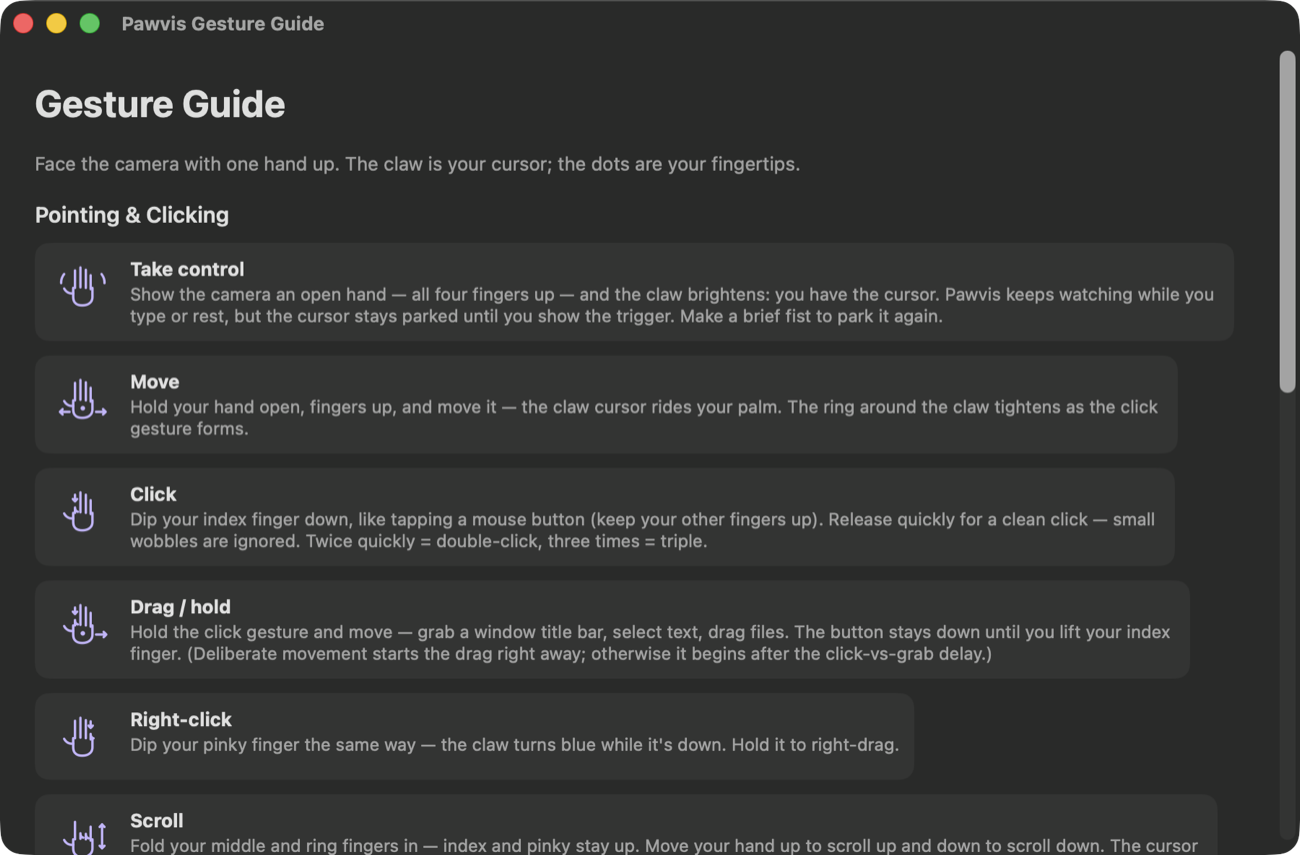
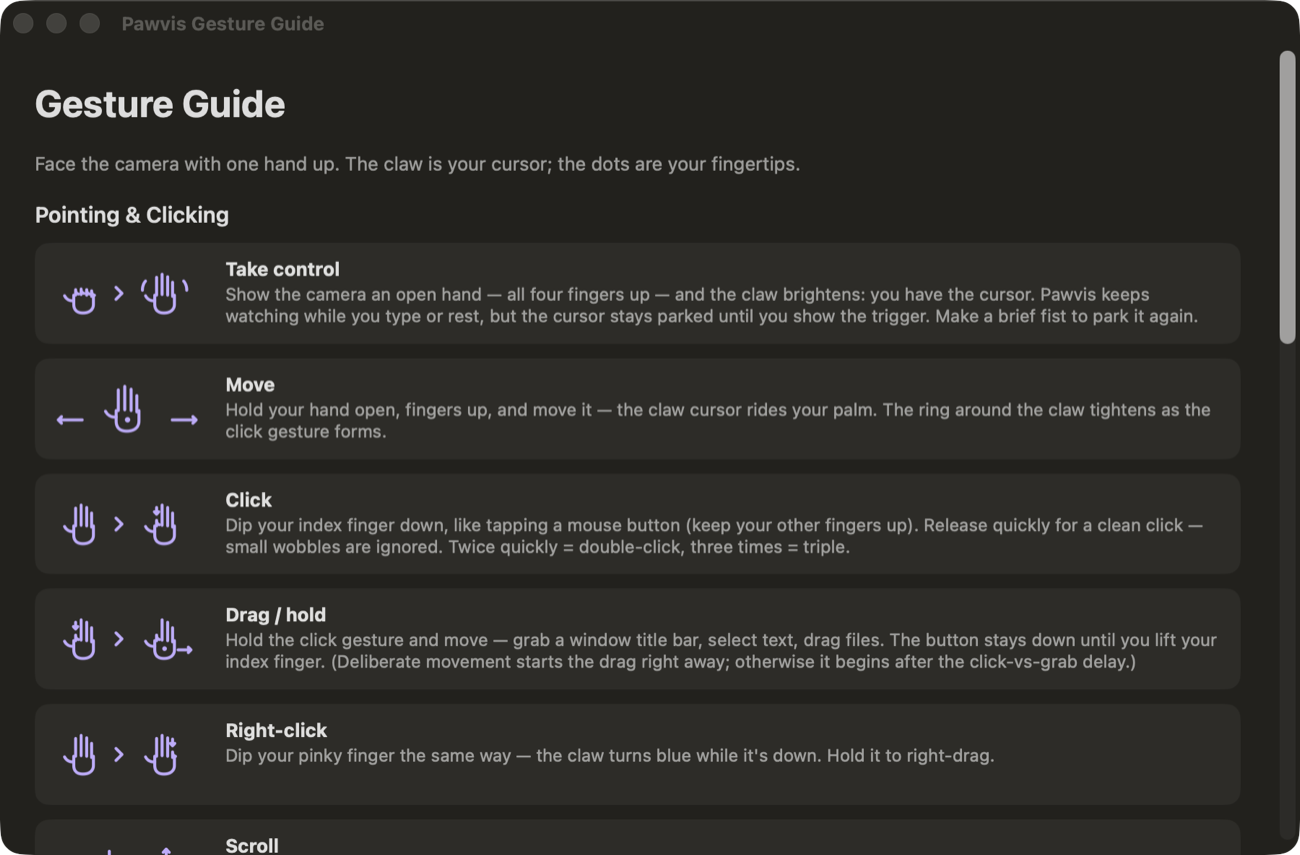
docs: the two wiggles reach the README, the site, and the screenshots
The README bullet and the site's custom-gestures card now name both
wiggle orientations (raised palm to the camera, or pointed flat at the
screen drumming on invisible keys), the card's glyph row gains the
side-view pointed hand, and the guide/settings screenshots are retaken
from the reworked windows: whole-gesture panels in the guide, the guide
link at the top of the Gestures tab. AGENTS.md records the new detector
constraint (orientation separation, span-normalized drop, opposed frames
feed neither machine) and the second art format.

diff --git a/docs/index.html b/docs/index.html
@@ -177,13 +177,14 @@
       <article class="card card-wide" data-reveal>
         <div class="glyph-row" aria-hidden="true">
           <img class="glyph" src="assets/gestures/wiggle.svg" alt="" width="48" height="48" loading="lazy">
+          <img class="glyph" src="assets/gestures/wiggle-pointed.svg" alt="" width="48" height="48" loading="lazy">
           <img class="glyph" src="assets/gestures/thumbs-up.svg" alt="" width="48" height="48" loading="lazy">
           <img class="glyph" src="assets/gestures/thumbs-left.svg" alt="" width="48" height="48" loading="lazy">
           <img class="glyph" src="assets/gestures/grab-up-right.svg" alt="" width="48" height="48" loading="lazy">
         </div>
         <h3>Custom gestures, your actions</h3>
-        <p>Wiggle your fingers at the camera, one hand or both. Hold a fist with the thumb up, down, left or right. Hold a shaka. Bunch your fingertips onto your thumb and fling the bunch toward any edge or corner. Every gesture is listed in <strong>Settings&nbsp;→&nbsp;Gestures</strong>, off until you give it an action: switch desktops, snap and move windows, go back or forward, press any shortcut, open any app, run any command. Each row carries its own tuning dials.</p>
-        <p class="card-note mono">nothing bound by default · tuning on every gesture · the guide illustrates what you bind</p>
+        <p>Wiggle your fingers with the hand raised to the camera, or point it flat at the screen and drum on invisible keys (a separate gesture, one hand or both). Hold a fist with the thumb up, down, left or right. Hold a shaka. Bunch your fingertips onto your thumb and fling the bunch toward any edge or corner. Every gesture is listed in <strong>Settings&nbsp;→&nbsp;Gestures</strong>, off until you give it an action: switch desktops, snap and move windows, go back or forward, press any shortcut, open any app, run any command. Each row carries its own tuning dials.</p>
+        <p class="card-note mono">nothing bound by default · tuning on every gesture · the guide illustrates every gesture in full</p>
       </article>
 
       <article class="card card-wide" data-reveal>
@@ -211,11 +212,11 @@
 
     <div class="shots" data-reveal>
       <figure class="shot">
-        <img src="assets/app-gesture-guide.png" alt="The Pawvis Gesture Guide window, listing Take control, Move, Click, Drag / hold, Right-click and Scroll, each illustrated with a drawing of the hand pose it takes." width="1300" height="855" loading="lazy">
+        <img src="assets/app-gesture-guide.png" alt="The Pawvis Gesture Guide window, listing Take control, Move, Click, Drag / hold and Right-click, each illustrated with a drawing of the whole gesture: the hand before, an arrow, and the hand after." width="1300" height="855" loading="lazy">
         <figcaption>The Gesture Guide ships in the app: every move, drawn as the pose you actually make, custom bindings included.</figcaption>
       </figure>
       <figure class="shot shot-tall">
-        <img src="assets/app-settings-custom.png" alt="The Pawvis Settings window on the Gestures tab: every custom gesture listed with a drawing of its pose, a menu naming its action or Not assigned, and a collapsed Tuning section." width="835" height="899" loading="lazy">
+        <img src="assets/app-settings-custom.png" alt="The Pawvis Settings window on the Gestures tab: an Open Gesture Guide button, then every custom gesture, raised and pointed wiggles included, listed with a drawing of its pose, a menu naming its action or Not assigned, and a collapsed Tuning section." width="835" height="899" loading="lazy">
         <figcaption>Settings&nbsp;→&nbsp;Gestures. Every gesture listed; give one an action to switch it on, tune it in its row.</figcaption>
       </figure>
       <figure class="shot shot-tall">

diff --git a/AGENTS.md b/AGENTS.md
@@ -282,6 +282,18 @@ question is how they were fixed. Do not retune these from intuition:
   frames of a fling blur the fingertips into nothing; treating that as
   "opened" released a real grab right before its fling. `isGatherHeld`
   returns nil when neither measure is readable, and the caller holds.
+- **The wiggle is two gestures, told apart by orientation.** Raised (palm
+  to the camera) counts fingertip-extent oscillation; pointed (hand flat,
+  fingers at the screen) counts fingertip *drop* below the knuckle line,
+  normalized by the knuckle span because the wrist→knuckle scale collapses
+  in exactly that pose (and openness, riding that scale, means nothing
+  there — don't gate the pointed wiggle on it). One machine per hand with a
+  dominant orientation: switching requires a debounced run of the opposite
+  pose and restarts the buffers, and an opposed frame feeds *neither*
+  machine — the measure swing of the pose change itself once completed the
+  old machine's count. The pointed thresholds are geometry-derived
+  defaults, newer than the rest of this list: retune them the same
+  `--gesture-eval` way, not by intuition.
 - **Thumb signals are cones with a gap.** Each of the four directions
   demands 1.5× axis dominance from the thumb-tip vector, so the in-between
   angles of a rotating (or resting) thumb match nothing.
@@ -344,6 +356,11 @@ python3 scripts/make_gesture_glyphs.py
   and `make_app.sh` copies them into the bundle as `gesture-*.svg`, where
   `PawvisGlyph.gesture` loads them. A pose can't disagree between the app and
   the page because there is only one of it.
+- **Two formats from one kit.** The 48×48 icons pose one hand (Settings
+  rows, the site's grid); the 104×48 `full-*` panels draw the *whole*
+  gesture — before-and-after frames, motion arrows — and lead every
+  Gesture Guide row (`PawvisGlyph.guidePanel`). A new gesture adds both,
+  and `--selftest` asserts each is in the bundle.
 - **The app tints them, so the colors inside don't matter to it.** They are
   loaded as template images (`NSImage` renders SVG as a vector rep, and
   template rendering keys off alpha alone), which is also why the hand and the

diff --git a/README.md b/README.md
@@ -80,11 +80,13 @@ Mouse**.
   a setting under **Settings → Tracking**.
 - **Custom gestures**: **Settings → Gestures** lists a library of extra
   one-shot gestures, every one of them visible and none of them live until
-  you give it an action. Point a hand (or both) at the camera and wiggle
-  your fingers, hold a fist with your thumb up, down, or tilted to point
-  straight left or right, hold a shaka, or bunch all your fingertips onto
-  your thumb and fling the bunch toward any edge or corner, eight directions
-  in all. A gesture's action can be anything from the catalog: move between
+  you give it an action. Wiggle your fingers with a hand raised palm to the
+  camera, or point a hand flat at the screen and drum on invisible keys (a
+  separate gesture, and both come in one-hand and two-hand versions). Hold
+  a fist with your thumb up, down, or tilted to point straight left or
+  right, hold a shaka, or bunch all your fingertips onto your thumb and
+  fling the bunch toward any edge or corner, eight directions in all. A
+  gesture's action can be anything from the catalog: move between
   virtual desktops, open Mission Control or App Exposé, show the desktop,
   snap the focused window (halves, thirds, two-thirds, quarters, center,
   maximize, minimize, next display), press Return or Escape, go back or
@@ -94,7 +96,8 @@ Mouse**.
   own collapsed **Tuning** section (hold time, wiggle vigor, grab tightness,
   fling distance), so a gesture that won't trigger, or triggers too easily,
   can be dialed in on the spot. The pill at the top of the screen confirms
-  every fire, and the Gesture Guide illustrates whatever you have bound.
+  every fire, and the Gesture Guide illustrates every gesture in full, with
+  what it is currently set to do.
 - **Reach adapts to distance.** Auto mode sizes the tracking area from how big
   your hand looks, so the whole screen stays reachable up close *and* far away
   with your fingers staying inside the camera frame. Manual mode gives you a
